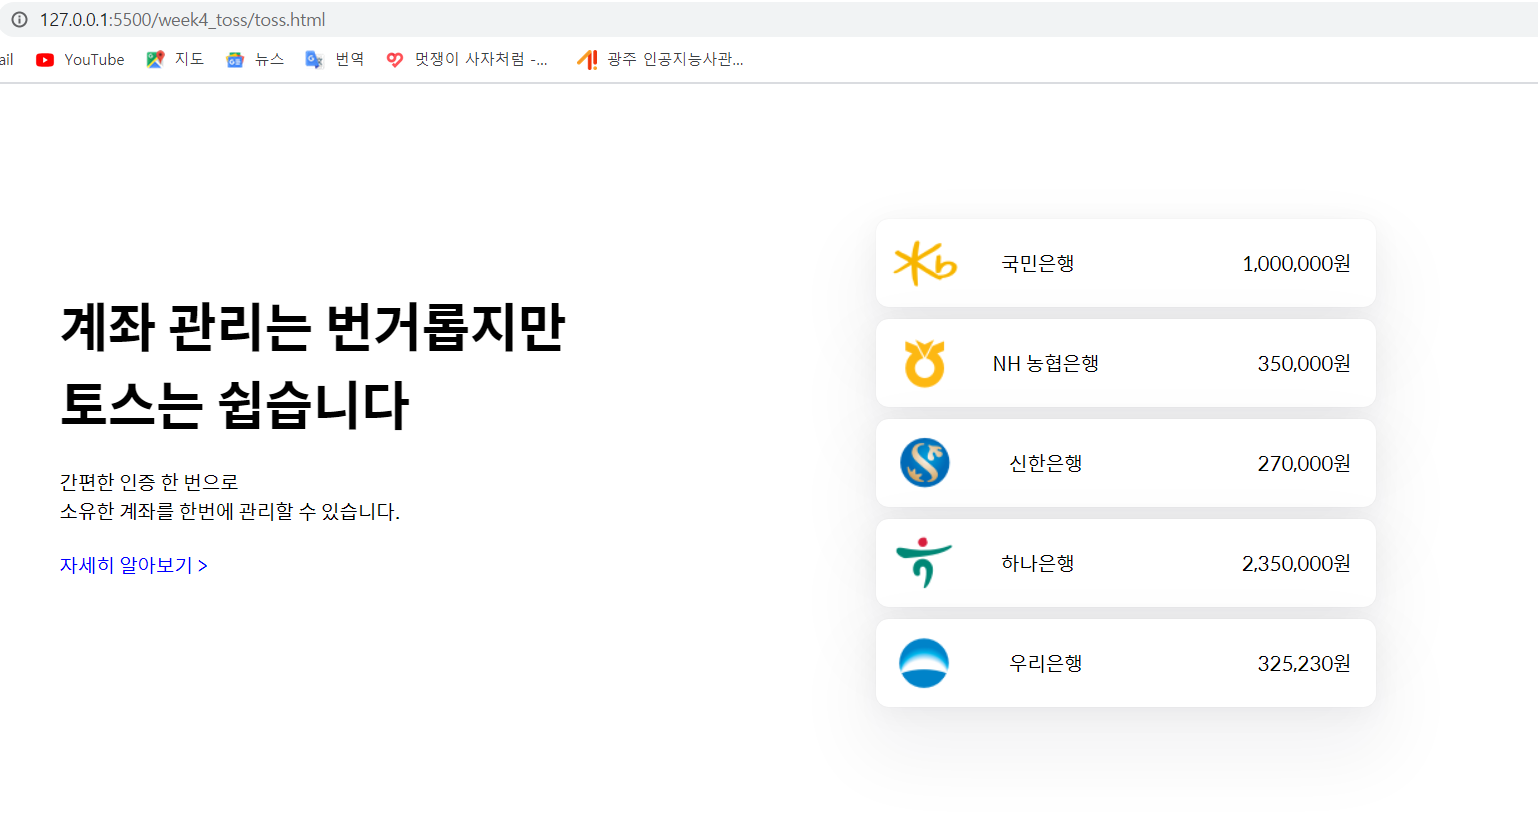
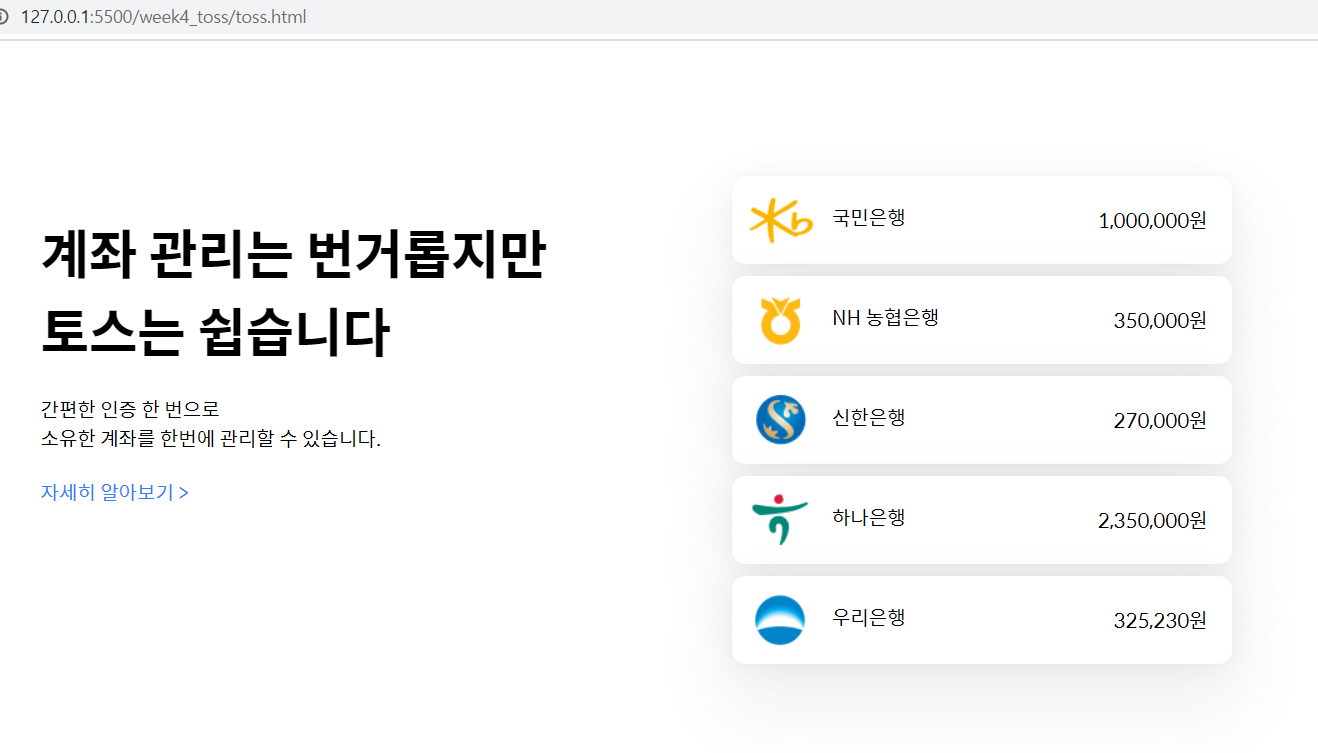
toss card edit

diff --git a/toss.html b/toss.html
@@ -25,28 +25,38 @@
      </div>
     <div class="big_container">
         <div class="container">
-            <img src="./logo_1.png", alt="로고 1"/>
-            <div class="box">국민은행</div>
+            <div class="box">
+                <img src="./logo_1.png", alt="로고 1"/>
+                국민은행
+            </div>
             <div class="box2">1,000,000원</div>
         </div>
         <div class="container">
-            <img src="./logo_2.png", alt="로고 2"/>
-            <div class="box">NH 농협은행</div>
+            <div class="box">
+                <img src="./logo_2.png", alt="로고 2"/>
+                NH 농협은행
+            </div>
             <div class="box2">350,000원</div>
         </div>
         <div class="container">
-            <img src="./logo_3.png", alt="로고 3"/>
-            <div class="box">신한은행</div>
+            <div class="box">
+                <img src="./logo_3.png", alt="로고 3"/>
+                신한은행
+            </div>
             <div class="box2">270,000원</div>
         </div>
         <div class="container">
-            <img src="./logo_4.png", alt="로고 4"/>
-            <div class="box">하나은행</div>
+            <div class="box">
+                <img src="./logo_4.png", alt="로고 4"/>
+                하나은행
+            </div>
             <div class="box2">2,350,000원</div>
         </div>
         <div class="container">
-            <img src="./logo_5.png", alt="로고 5"/>
-            <div class="box">우리은행</div>
+            <div class="box">
+                <img src="./logo_5.png", alt="로고 5"/>
+                우리은행
+            </div>
             <div class="box2">325,230원</div>
         </div>
     </div>

diff --git a/toss.css b/toss.css
@@ -8,7 +8,9 @@
     width: 500px;
     height: 500px;
     background-color: white;
-    margin : 100px;
+
+    margin-left : 100px;
+    margin-top : 100px;
 }
 
 .container
@@ -33,12 +35,20 @@
 
 img
 {
+    display: inline-block;
+
     margin-left : 10px;
+    margin-right : 10px;
+
+    vertical-align : middle;
 }
 
 .box
 {
     padding-right : 100px;
+
+    line-height : 50px;
+
 }
 
 .box2
@@ -76,7 +86,7 @@ img
 {
     font-size : 16px;
     font-family : 'Spoqa Han Sans';
-    color : blue;
+    color : #3182f6;
 
     margin-left : 50px;
     margin-bottom : 20px;
